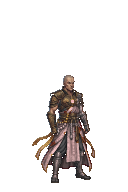
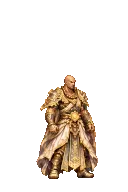
chore: update monk armor sprites, gearart, and world/render tweaks

Changed region(s): [[0.25, 0.375, 0.7812, 0.9688]]

diff --git a/src/core/gearart.js b/src/core/gearart.js
@@ -12,7 +12,7 @@ const helmetPromises = { helmet: null };
 const LOOK_GEN = 2; // item.look[3]: looks rolled before the Grim Nocturne library are rerolled
 // Bumped with every rebuild of the gear art: a browser that kept an older gear.json beside a newer atlas read armors
 // past the atlas's end, and the hero went invisible once he put one on.
-const V = '?v=nocturne-9';
+const V = '?v=nocturne-13';
 // The hero is composed at HD x its 128x192 frame: armor pixels enlarged as they are, helmets from their HD atlas
 // (tools/nocturnegear.py), so the engine's downscale keeps more helmet detail the closer the camera zooms in.
 export const HD = 4;

diff --git a/src/game/game.js b/src/game/game.js
@@ -2901,7 +2901,8 @@ export const game = {
     world.dungeonAffixes = normalizeDungeonAffixIds(c.nextAffixes ?? c.dungeonAffixes);
     if (world.dungeonAffixes.includes('bloodmoon')) {
       world.redMoon = true;
-      world.ambient = '#300808';
+      world.ambientFog = '#300808';
+      world.darkK = Math.max(world.darkK || 0, DUNGEON_AFFIX_CONFIG.bloodmoon?.darkness ?? 0.3);
     }
     if (world.dungeonAffixes.includes('golden')) world.goldMul = (world.goldMul || 1) * DUNGEON_AFFIX_CONFIG.golden.goldMultiplier;
     if (world.dungeonAffixes.includes('treasure_hoard')) world.goldMul = (world.goldMul || 1) * 1.25;

diff --git a/src/game/render.js b/src/game/render.js
@@ -1239,7 +1239,7 @@ function drawLighting(ctx, world) {
   lc.globalCompositeOperation = 'source-over';
   lc.globalAlpha = 1;
   lc.clearRect(0, 0, lw, lh);
-  const [fr, fg, fb] = hexToRgb(b.fog || '#000000');
+  const [fr, fg, fb] = hexToRgb(world.ambientFog || b.fog || '#000000');
   lc.fillStyle = `rgba(${fr},${fg},${fb},${Math.max(b.dark, (world.darkK || 0) * 0.94)})`;
   lc.fillRect(0, 0, lw, lh);
   lc.globalCompositeOperation = 'destination-out';

diff --git a/src/game/world.js b/src/game/world.js
@@ -300,7 +300,7 @@ export class World {
     if (this.corpses.length > 70) this.corpses.splice(0, this.corpses.length - 70);
     for (let i = this.fallen.length - 1; i >= 0; i--) if ((this.fallen[i].t += dt) > 3) this.fallen.splice(i, 1);
     if (p) this.map.reveal(p.x, p.y, 11);
-    this.ambient(dt);
+    if (typeof this.ambient === 'function') this.ambient(dt);
     updateVfx(dt, this);
   }
 
